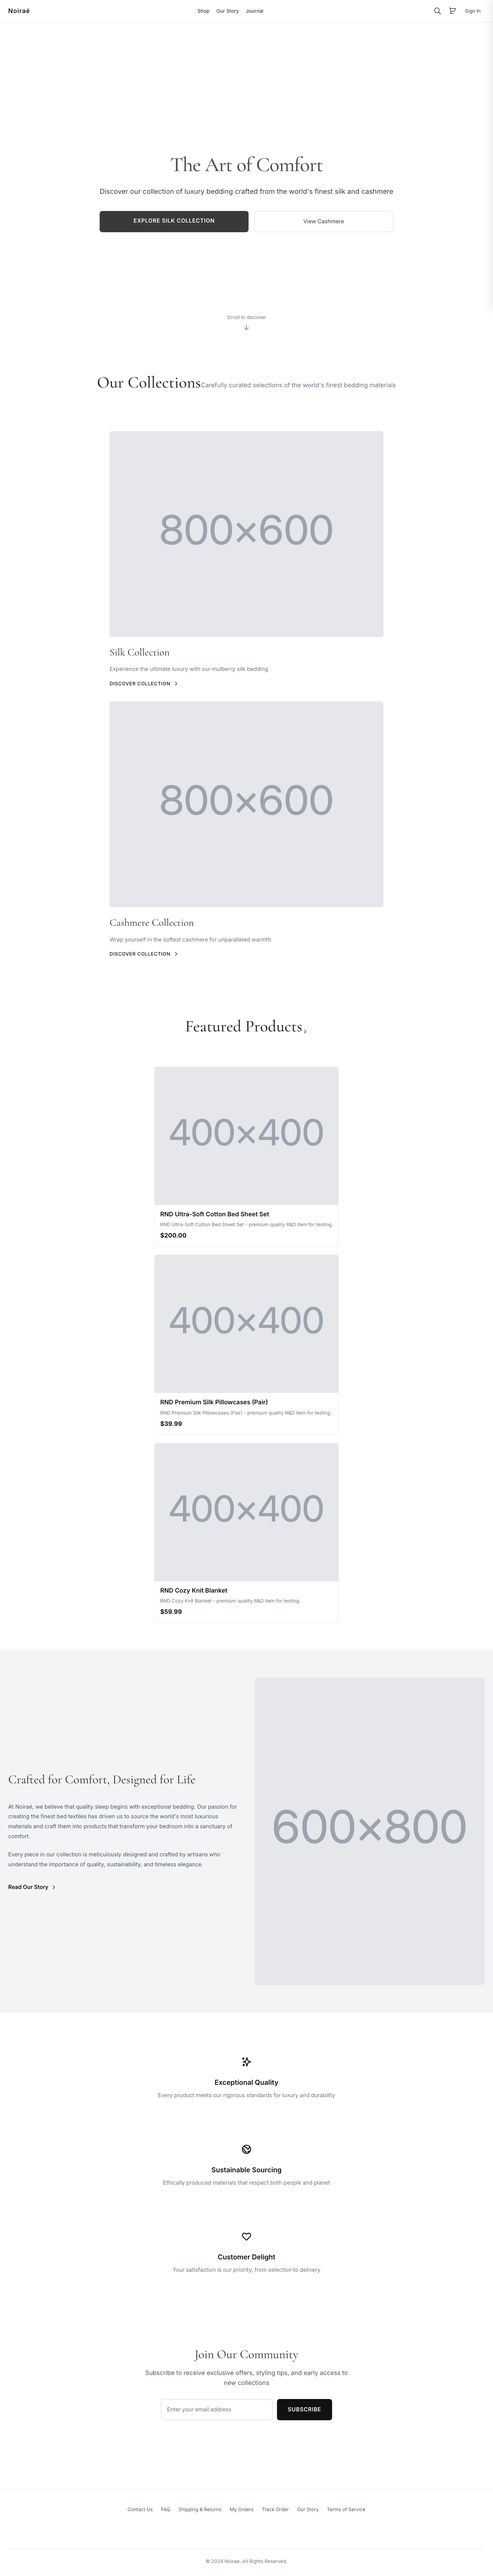
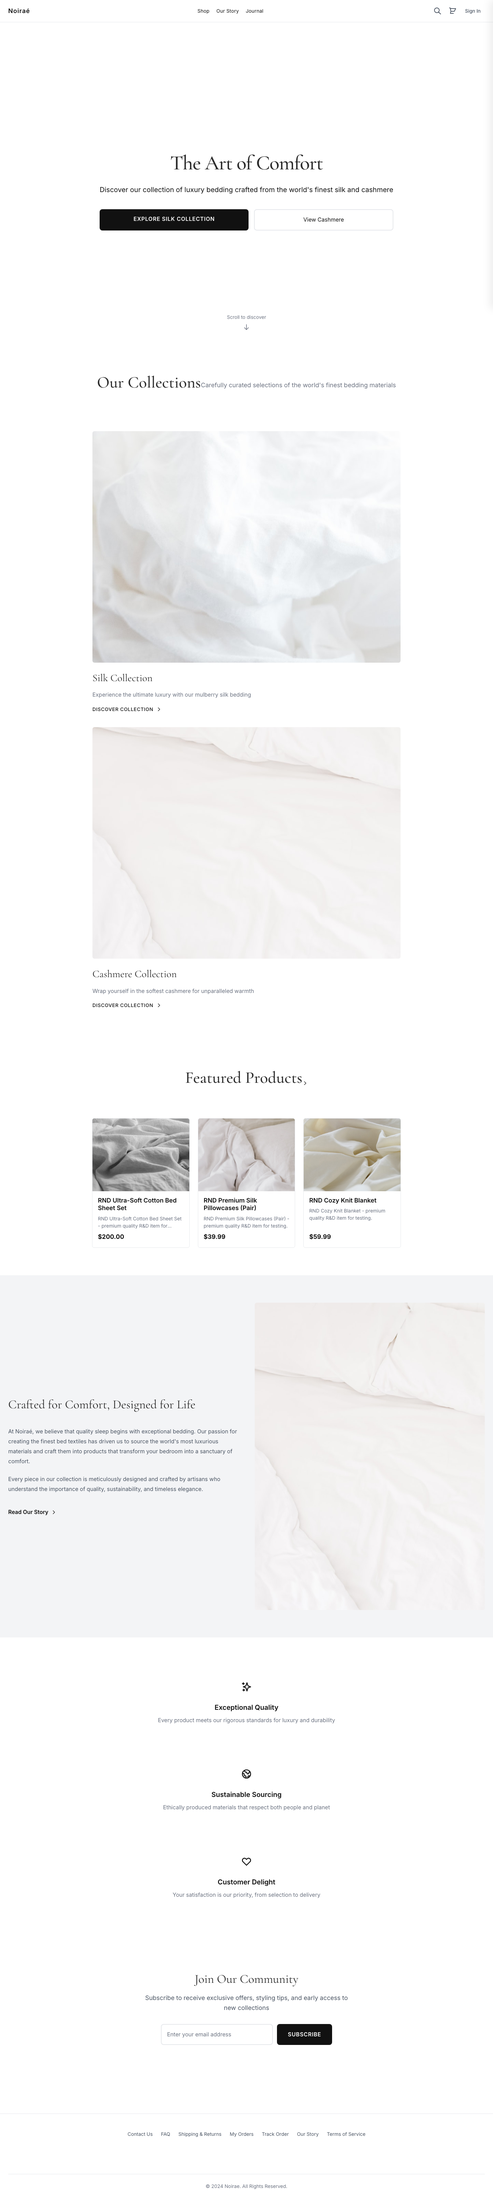
feat: serve real bedding imagery instead of grey placeholders
- Rewrite /api/placeholder/[w]/[h] to redirect to a real bedding photo from
  public/images/bedding, chosen by a stable hash of an optional ?seed. Every
  placeholder slot across the site (product cards, collections, detail, cart,
  search) now shows real imagery, with no per-call flicker.
- Pass ?seed=<product id> from the shop card, home featured products, and product
  detail so each product gets a distinct, stable image; give the Silk and Cashmere
  home collections their own seeds.
- Add 12 license-free bedding photos (Unsplash) under public/images/bedding.
- Refresh home/shop/product screenshots to show the real imagery.

Images use object-fit: cover (already set), so varied aspect ratios fill cleanly.

diff --git a/src/app/api/placeholder/[w]/[h]/route.js b/src/app/api/placeholder/[w]/[h]/route.js
@@ -1,55 +1,44 @@
-// Next.js App Router API route: Dynamic placeholder image generator (SVG)
-// Provides a lightweight placeholder at /api/placeholder/:w/:h
-// Example: /api/placeholder/800/600 -> 4:3 grey box with centered dimensions text
+// Next.js App Router API route: image resolver for placeholder slots.
+// Instead of a grey box, this serves a real bedding photo from
+// public/images/bedding so product cards, collections, and detail pages all
+// show imagery.
+//
+//   /api/placeholder/:w/:h              -> a bedding image derived from the size
+//   /api/placeholder/:w/:h?seed=PRODabc -> a stable image derived from the seed
+//                                          (pass a product id for per-product variety)
 
-/**
- * GET /api/placeholder/:w/:h
- * Generates an SVG placeholder image with the requested width and height.
- * - Validates and clamps dimensions to a safe maximum.
- * - Returns image/svg+xml content with cache headers.
- *
- * Security: Only numeric params are accepted; SVG is constructed without user-controlled markup.
- */
-export async function GET(_req, context) {
-  // Await dynamic params per Next.js guidance
+const IMAGE_COUNT = 12; // public/images/bedding/bed-1.jpg .. bed-12.jpg
+
+// Small deterministic string hash (djb2) so the same seed always maps to the
+// same image (stable across renders / SSR + client).
+function pickImage(seed) {
+  let hash = 5381;
+  for (let i = 0; i < seed.length; i++) {
+    hash = ((hash * 33) ^ seed.charCodeAt(i)) >>> 0;
+  }
+  return (hash % IMAGE_COUNT) + 1;
+}
+
+export async function GET(req, context) {
   const { w, h } = await context.params;
 
-  // Parse and validate dimensions
   const parseDim = (v) => {
     const n = parseInt(String(v), 10);
     return Number.isFinite(n) && n > 0 ? n : null;
   };
-
-  const requestedWidth = parseDim(w);
-  const requestedHeight = parseDim(h);
-
-  if (!requestedWidth || !requestedHeight) {
+  if (!parseDim(w) || !parseDim(h)) {
     return new Response('Invalid dimensions. Use /api/placeholder/{width}/{height}', { status: 400 });
   }
 
-  // Clamp to avoid excessive values
-  const MAX_DIMENSION = 2000;
-  const width = Math.min(requestedWidth, MAX_DIMENSION);
-  const height = Math.min(requestedHeight, MAX_DIMENSION);
+  const url = new URL(req.url);
+  const seed = url.searchParams.get('seed') || `${w}x${h}`;
+  const idx = pickImage(String(seed));
 
-  // Colors and typography
-  const bg = '#e5e7eb'; // gray-200
-  const fg = '#9ca3af'; // gray-400
-  const text = `${width}×${height}`;
-  const fontSize = Math.max(10, Math.round(Math.min(width, height) / 5));
-
-  const svg = `<?xml version="1.0" encoding="UTF-8"?>\n` +
-    `<svg xmlns="http://www.w3.org/2000/svg" width="${width}" height="${height}" viewBox="0 0 ${width} ${height}">` +
-    `<rect width="100%" height="100%" fill="${bg}"/>` +
-    `<text x="50%" y="50%" font-family="system-ui, -apple-system, Segoe UI, Roboto, Helvetica, Arial, sans-serif" font-size="${fontSize}" dominant-baseline="middle" text-anchor="middle" fill="${fg}">${text}</text>` +
-    `</svg>`;
-
-  return new Response(svg, {
-    status: 200,
+  return new Response(null, {
+    status: 302,
     headers: {
-      'Content-Type': 'image/svg+xml; charset=utf-8',
-      // Cache for a day; fine for fixed-dimension placeholders
-      'Cache-Control': 'public, max-age=86400, immutable',
+      Location: `/images/bedding/bed-${idx}.jpg`,
+      'Cache-Control': 'public, max-age=86400',
     },
   });
 }

diff --git a/src/app/page.js b/src/app/page.js
@@ -49,14 +49,14 @@ function FeaturedCollections() {
     {
       title: 'Silk Collection',
       description: 'Experience the ultimate luxury with our mulberry silk bedding',
-      image: '/api/placeholder/800/600',
+      image: '/api/placeholder/800/600?seed=silk',
       href: '/collections/silk',
       accent: 'Timeless elegance'
     },
     {
       title: 'Cashmere Collection',
       description: 'Wrap yourself in the softest cashmere for unparalleled warmth',
-      image: '/api/placeholder/800/600',
+      image: '/api/placeholder/800/600?seed=cashmere',
       href: '/collections/cashmere',
       accent: 'Supreme softness'
     }
@@ -182,8 +182,8 @@ function FeaturedProducts() {
           {products.slice(0, 4).map((product) => (
             <Link key={product.id} href={`/products/${product.id}`} className="noirae-product-card">
               <div className="noirae-product-image-container">
-                <img 
-                  src={product.image || '/api/placeholder/400/400'} 
+                <img
+                  src={product.image || `/api/placeholder/400/400?seed=${product.id || product.name || 'p'}`}
                   alt={product.name}
                   className="noirae-product-image"
                 />

diff --git a/src/app/products/[id]/page.js b/src/app/products/[id]/page.js
@@ -93,7 +93,7 @@ export default function ProductDetails() {
   );
 
   // Prepare images for ImageZoom component
-  const productImages = product.images?.map(img => img.original_url || img.thumbnail_small_url) || ['/api/placeholder/600/600'];
+  const productImages = product.images?.map(img => img.original_url || img.thumbnail_small_url) || [`/api/placeholder/600/600?seed=${product.id || product.slug || 'p'}`];
 
   const stockQty = product.stock_quantity ?? product.quantity ?? null;
   const isOutOfStock = stockQty !== null && stockQty <= 0;

diff --git a/src/app/shop/page.js b/src/app/shop/page.js
@@ -25,7 +25,7 @@ export function ProductCard({ product, onAddToCart }) {
     <Link href={`/products/${product.id}`} className="noirae-shop-product-card">
       <div className="noirae-shop-product-image">
         <img 
-          src={product.image || '/api/placeholder/400/400'} 
+          src={product.image || `/api/placeholder/400/400?seed=${product.id || product.slug || product.name || 'p'}`}
           alt={product.name}
         />
       </div>
